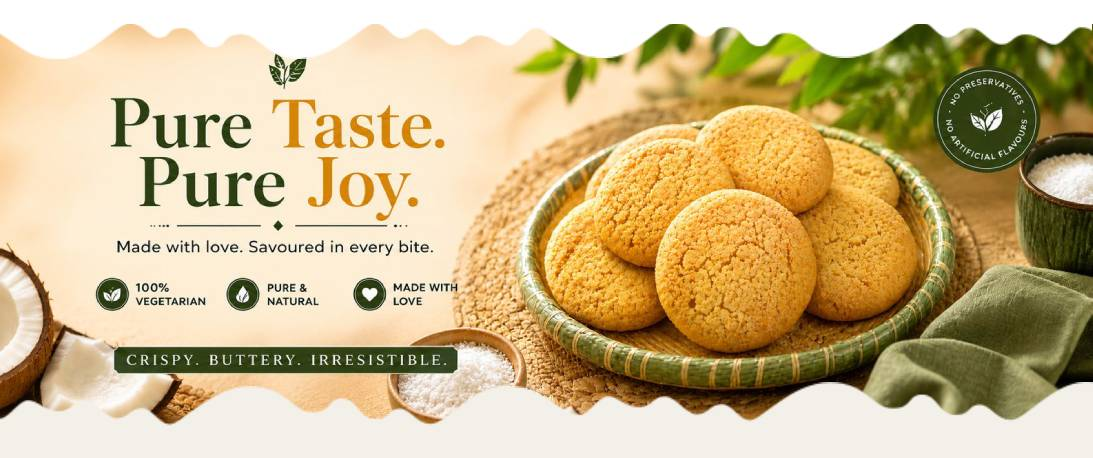
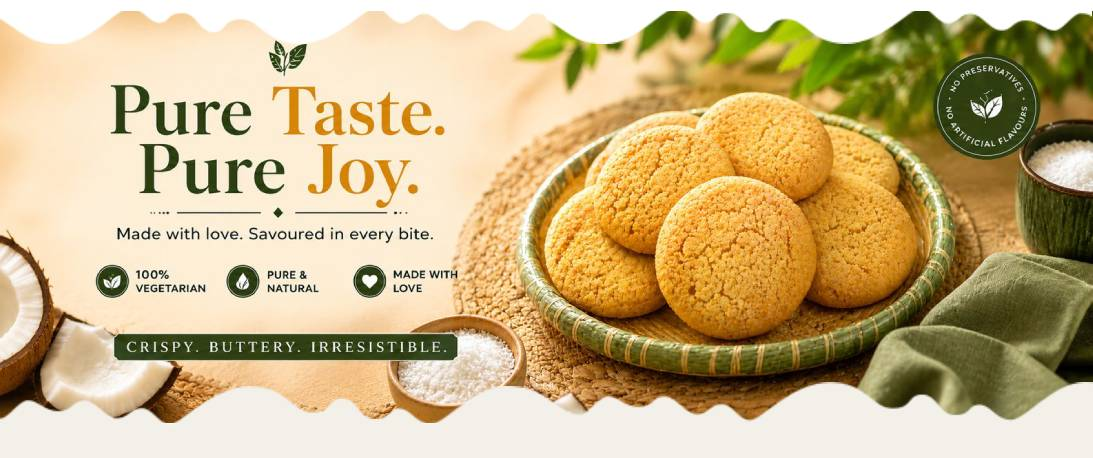
f

diff --git a/index.html b/index.html
@@ -35,7 +35,7 @@
     <link rel="stylesheet" href="css/style.css">
     <!-- Start WOWSlider.com HEAD section -->
 <link rel="stylesheet" type="text/css" href="engine1/style.css" />
-<!-- <script type="text/javascript" src="engine1/jquery.js"></script> -->
+<script type="text/javascript" src="engine1/jquery.js"></script>
 <!-- End WOWSlider.com HEAD section -->
     </head>
   
@@ -160,16 +160,18 @@
    
     <div class="page-wrap">
       <!-- Start WOWSlider.com BODY section --> <!-- add to the <body> of your page -->
-	<div id="wowslider-container2" class="wow-slider-lg">
+	<div id="wowslider-container2">
 	<div class="ws_images"><ul>
-		<li><img src="images/banner/bg.jpg" alt="bg" title="bg" id="wows1_0"/></li>
+		<li><img src="images/banner/bg.jpg" alt="bg" title="" id="wows1_0"/></li>
+    <!-- <li><img src="images/banner/bg.jpg" alt="bg" title="" id="wows1_1"/></li> -->
+
 	</ul></div>
 	<div class="ws_bullets"><div>
-		<!-- <a href="#" title="bg"><span><img src="data1/tooltips/bg.jpg" alt="bg"/>1</span></a> -->
+		<a href="#" title="bg"><span><img src="data1/tooltips/bg.jpg" alt="bg"/>1</span></a>
 	</div></div>
 	</div>	
-	<!-- <script type="text/javascript" src="engine1/wowslider.js"></script>
-	<script type="text/javascript" src="engine1/script.js"></script> -->
+	<script type="text/javascript" src="engine1/wowslider.js"></script>
+	<script type="text/javascript" src="engine1/script.js"></script>
 	<!-- End WOWSlider.com BODY section -->
 
       <!-- Start WOWSlider.com BODY section -->
@@ -186,8 +188,8 @@
 <div class="ws_script" style="position:absolute;left:-99%"></div>
 <div class="ws_shadow"></div>
 </div>	
-<!-- <script type="text/javascript" src="engine1/wowslider.js"></script>
-<script type="text/javascript" src="engine1/script.js"></script> -->
+<script type="text/javascript" src="engine1/wowslider.js"></script>
+<script type="text/javascript" src="engine1/script.js"></script>
 <!-- End WOWSlider.com BODY section -->
       <section class="ps-section ps-section--best-seller ps-section--pattern pt-40 pb-30">
         <div class="container">

diff --git a/engine1/script.js b/engine1/script.js
@@ -1,11 +1,4 @@
-// -----------------------------------------------------------------------------------
-// http://wowslider.com/
-// JavaScript Wow Slider is a free software that helps you easily generate delicious 
-// slideshows with gorgeous transition effects, in a few clicks without writing a single line of code.
-// Generated by WOW Slider 9.0
-//
-//***********************************************
-// Obfuscated by Javascript Obfuscator
-// http://javascript-source.com
-//***********************************************
+
 jQuery("#wowslider-container1").wowSlider({effect:"basic",prev:"",next:"",duration:20*100,delay:20*100,width:1405,height:624,autoPlay:true,autoPlayVideo:false,playPause:true,stopOnHover:false,loop:false,bullets:1,caption:true,captionEffect:"parallax",controls:true,controlsThumb:false,responsive:1,fullScreen:false,gestures:2,onBeforeStep:0,images:0});
+
+jQuery("#wowslider-container2").wowSlider({effect:"basic",prev:"",next:"",duration:20*100,delay:20*100,width:1405,height:624,autoPlay:true,autoPlayVideo:false,playPause:true,stopOnHover:false,loop:false,bullets:1,caption:true,captionEffect:"parallax",controls:true,controlsThumb:false,responsive:1,fullScreen:false,gestures:2,onBeforeStep:0,images:0});

diff --git a/css/style.css b/css/style.css
@@ -6434,7 +6434,7 @@ disclosure-closed;
 }
 @media screen and (min-width: 230px) and (max-width:951px)
 {
-.wow-slider-lg{
+#wowslider-container2{
   display: none;
 }
 .cust